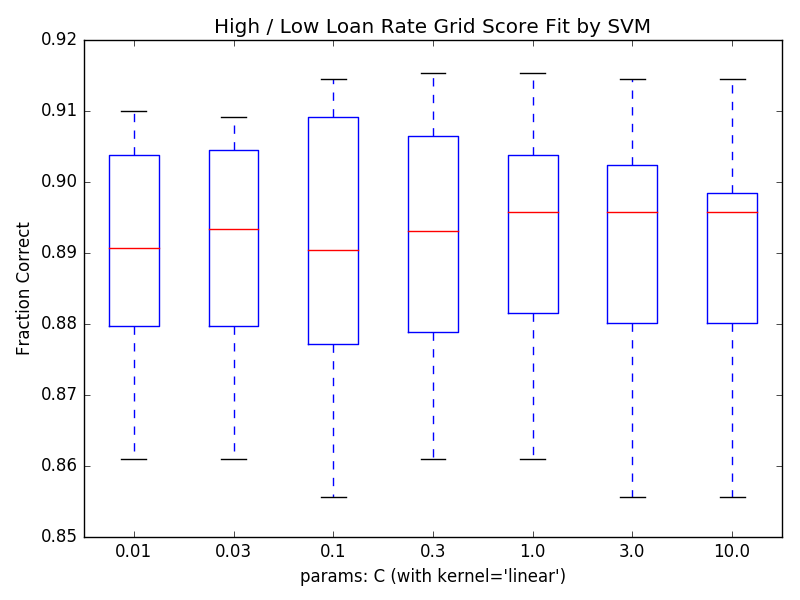
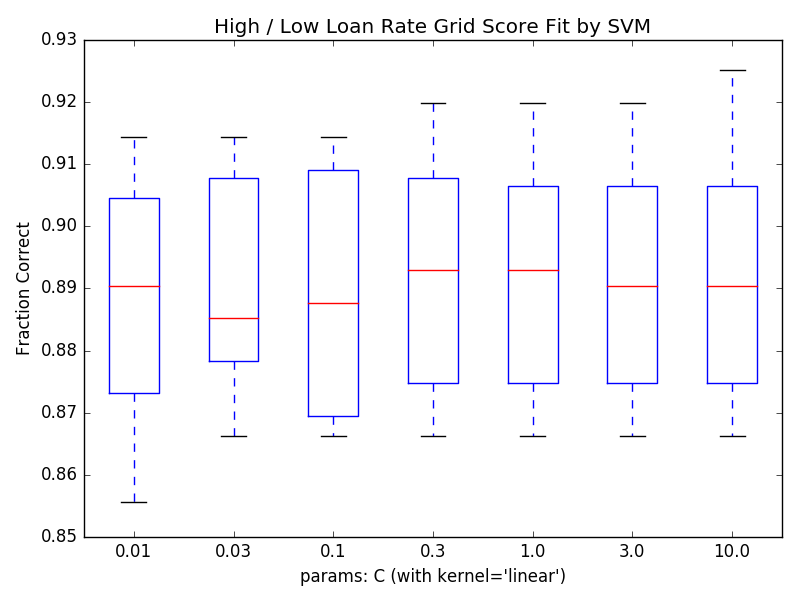
more svm gridscore checks

diff --git a/svm_predict.py b/svm_predict.py
@@ -19,22 +19,20 @@ def make_plotdir():
         os.mkdir(plotdir)
     return plotdir
 
-# works if more than one element per labs entry?
 def gridscoreBoxplot(gslist, plotdir, label, xlabel):
+    '''boxplot of grid score'''
     vals = list(map(lambda e: e.cv_validation_scores, gslist))
     labs = list(map(lambda e: list(e.parameters.values()), gslist))
-# test if labs[0].__class__ == 'list' and len(labs[0]) > 1
     if len(labs[0]) > 1:
         labs = list(map(lambda e: reduce(lambda a,b: str(a)+"\n"+str(b), e), labs))
     else:
-        labs = list(map(lambda e: str(e[0]), labs))
-        # labs = [str(e) for e in labs]
+        # labs = list(map(lambda e: str(e[0]), labs))
+        labs = [str(e[0]) for e in labs]
     xpar = list(gslist[0].parameters.keys())
     if len(xpar) > 1:
         xpar = reduce(lambda a,b: a+", "+b, xpar)
     else:
         xpar = xpar[0]
-#    xpar = str(xpar)
     plt.clf()
     plt.boxplot(vals, labels=labs)
     plt.title("High / Low Loan Rate Grid Score Fit by SVM")
@@ -47,8 +45,6 @@ def gridscoreBoxplot(gslist, plotdir, label, xlabel):
 if __name__ == '__main__':
     loansData, testData = read_data()
     
-    plotdir = make_plotdir()
-    
     dep_variables = ['IR_TF']
     loans_y = pd.Series( loansData['IR_TF'] )
     test_y = testData['IR_TF']
@@ -59,7 +55,6 @@ if __name__ == '__main__':
     indep_variables = all_numeric_vars
     
     loans_X = pd.DataFrame( loansData[indep_variables] )
-#    loans_X.dropna()   # does nothing
     test_X = pd.DataFrame( testData[indep_variables] )
     
     scaler = StandardScaler()
@@ -73,13 +68,12 @@ if __name__ == '__main__':
     print("\nloans_X head", loans_X.__class__, loans_X.shape, "\n", loans_X[:5])
     print("loans_y head", loans_y.__class__, loans_y.shape, "\n", loans_y[:5])
     
-#    plotdir = make_plotdir()
+    plotdir = make_plotdir()
 
     # initial fit         # verbose=10 max_iter=200
     svc = svm.SVC(kernel='linear', C=0.1, cache_size=20000)
     print("svc params", svc.get_params())
     svc.fit(loans_X, loans_y)
-    # Warning: using -h 0 may be faster   # need Scaler
     print("svc fit done")
     score = svc.score(loans_X, loans_y)
     print("svm score", score)  # 0.897
@@ -91,13 +85,13 @@ if __name__ == '__main__':
       (pred_correct/test_y.shape[0], pred_correct, test_y.shape[0]))
     
     # cross-validate initial fit scores
-    clf = svm.SVC(kernel='linear', C=1.0, cache_size=20000)
+    clf = svm.SVC(kernel='linear', C=1.0, cache_size=1000)
     scores = cross_validation.cross_val_score(clf, loans_X, loans_y, cv=5)
     print("CV scores mean %.5f +- %.5f  (raw scores %s)" % \
       (np.mean(scores), 2.0 * np.std(scores), scores))
 
     # grid search of fit scores
-    clf = svm.SVC(kernel='linear', cache_size=20000)
+    clf = svm.SVC(kernel='linear', cache_size=1000)  # 3.1 s
     param_grid = [{'C': [0.01, 0.03, 0.1, 0.3, 1.0, 3.0, 10.0]}]
     gs = GridSearchCV(estimator=clf, param_grid=param_grid, cv=10, \
       verbose=1, n_jobs=-1, scoring='accuracy')
@@ -108,7 +102,7 @@ if __name__ == '__main__':
     gridscoreBoxplot(gs.grid_scores_, plotdir, "C", "kernel='linear'")
     # how to test if scores are significantly different?  stats!
     
-    clf = svm.SVC(kernel='rbf', cache_size=20000)
+    clf = svm.SVC(kernel='rbf', cache_size=1000)  # 4.5 s
     param_grid = [{'gamma': [0.01, 0.03, 0.1, 0.3, 1.0, 3.0, 10.0]}]
     gs = GridSearchCV(estimator=clf, param_grid=param_grid, cv=10, \
       verbose=1, n_jobs=-1, scoring='accuracy')
@@ -117,5 +111,27 @@ if __name__ == '__main__':
     print("gs best score %.5f %s\n%s" % \
       (gs.best_score_, gs.best_params_, gs.best_estimator_))
     gridscoreBoxplot(gs.grid_scores_, plotdir, "rbf_gamma", "kernel='rbf'")
+
+    clf = svm.SVC(kernel='rbf', cache_size=1000)  # 6.5 s
+    param_grid = [{'gamma': [0.01, 0.03, 0.1, 0.3, 1.0], \
+      'C': [0.3, 1.0, 3.0]}]
+    gs = GridSearchCV(estimator=clf, param_grid=param_grid, cv=10, \
+      verbose=1, n_jobs=-1, scoring='accuracy')
+    gs.fit(loans_X, loans_y)  # fit all grid parameters
+    print("gs grid scores\n", gs.grid_scores_)
+    print("gs best score %.5f %s\n%s" % \
+      (gs.best_score_, gs.best_params_, gs.best_estimator_))
+    gridscoreBoxplot(gs.grid_scores_, plotdir, "rbf_gammaC", "kernel='rbf'")
+
+    clf = svm.LinearSVC()   # 1.6 s  fast
+    param_grid = [{'C': [0.01, 0.03, 0.1, 0.3, 1.0, 3.0, 10.0]}]
+    gs = GridSearchCV(estimator=clf, param_grid=param_grid, cv=10, \
+      verbose=1, n_jobs=-1, scoring='accuracy')
+    gs.fit(loans_X, loans_y)  # fit all grid parameters
+    print("gs grid scores\n", gs.grid_scores_)
+    print("gs best score %.5f %s\n%s" % \
+      (gs.best_score_, gs.best_params_, gs.best_estimator_))
+    gridscoreBoxplot(gs.grid_scores_, plotdir, "LinearSVC", "LinearSVC")
+
 
 
